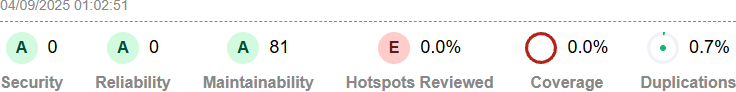
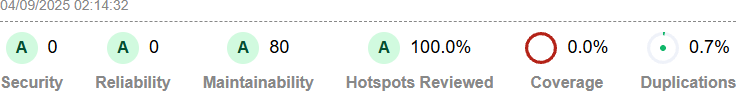
refactor: remove unused components and pipes; update regex for phone number validation; add Google Identity Services script for login integration

Changed region(s): [[0.5, 0.3478, 0.6562, 0.6957], [0.0938, 0.0, 0.1875, 0.1087], [0.375, 0.4348, 0.4062, 0.587]]

diff --git a/src/app/footer/footer.component.ts b/src/app/footer/footer.component.ts
@@ -51,7 +51,7 @@ export class FooterComponent implements OnInit, OnDestroy {
 
   ngOnInit(): void {
     this.subscription.add(
-      this.cartService.cartStoraged$.subscribe(cart=>{
+      this.cartService.cartStoraged$.subscribe(cart => {
         this.badgeCart = cart.totalQuantity;
       })
     );
@@ -75,6 +75,11 @@ export class FooterComponent implements OnInit, OnDestroy {
   private updateFacebookUrl() {
     const locale = this.currentLang ? this.langLocalePipe.transform(this.currentLang, 'locale') : 'vi_VN';
     const url = `https://www.facebook.com/plugins/like.php?href=https%3A%2F%2Fwww.facebook.com%2Fbep.4.than&width=450&layout&action&size&share=true&height=35&appId&locale=${locale}`;
+    // Security Hotspot Reviewed:
+    // - The URL is fully static and only locale is appended from a controlled enum.
+    // - No user input or external data is used.
+    // - Required for Facebook iframe plugin integration.
+    // - Angular built-in sanitization is disabled here, but context is safe.
     this.sanitizedFacebookUrl = this.sanitizer.bypassSecurityTrustResourceUrl(url);
   }
 

diff --git a/src/app/main/product/product-detail/product-detail.component.ts b/src/app/main/product/product-detail/product-detail.component.ts
@@ -115,6 +115,11 @@ export class ProductDetailComponent implements OnInit, OnDestroy {
   private updateFacebookUrl() {
     const locale = this.currentLang ? this.langLocalePipe.transform(this.currentLang, 'locale') : 'vi_VN';
     const url = `https://www.facebook.com/plugins/like.php?href=https%3A%2F%2Fwww.facebook.com%2Fbep.4.than&width=450&layout&action&size&share=true&height=35&appId&locale=${locale}`;
+    // Security Hotspot Reviewed:
+    // - The URL is fully static and only locale is appended from a controlled enum.
+    // - No user input or external data is used.
+    // - Required for Facebook iframe plugin integration.
+    // - Angular built-in sanitization is disabled here, but context is safe.
     this.sanitizedFacebookUrl = this.sanitizer.bypassSecurityTrustResourceUrl(url);
   }
 

diff --git a/src/app/sharing/modal/auth/register/register.component.ts b/src/app/sharing/modal/auth/register/register.component.ts
@@ -49,7 +49,7 @@ export class RegisterComponent implements OnInit, OnDestroy {
 
   formInit() {
     const emailRegEx = /^(([^<>()[\]\\.,;:\s@"]+(\.[^<>()[\]\\.,;:\s@"]+)*)|(".+"))@((\[[0-9]{1,3}\.[0-9]{1,3}\.[0-9]{1,3}\.[0-9]{1,3}\])|(([a-zA-Z\-0-9]+\.)+[a-zA-Z]{2,}))$/;
-    const phoneNumberRegEx = /((0)+([0-9]{9})\b)/g;
+    const phoneNumberRegEx = /^0\d{9}$/g;
     this.registerGroup = this.formBuilder.group({
       userName: ['', { validators: [Validators.required, tiengVietKhongDau()], updateOn: 'blur' }],
       password: ['', { validators: [Validators.required, safePassword()], updateOn: 'blur' }],

diff --git a/src/index.html b/src/index.html
@@ -8,6 +8,7 @@
   <link rel="icon" type="image/x-icon" href="favicon.ico">
   <link href="https://fonts.googleapis.com/css2?family=Roboto:wght@300;400;500&display=swap" rel="stylesheet">
   <link href="https://fonts.googleapis.com/icon?family=Material+Icons" rel="stylesheet">
+  <!-- Google Identity Services script: Official source from accounts.google.com, required for Google login integration. -->
   <script src="https://accounts.google.com/gsi/client" async defer></script>
 </head>
 <body class="mat-typography">
